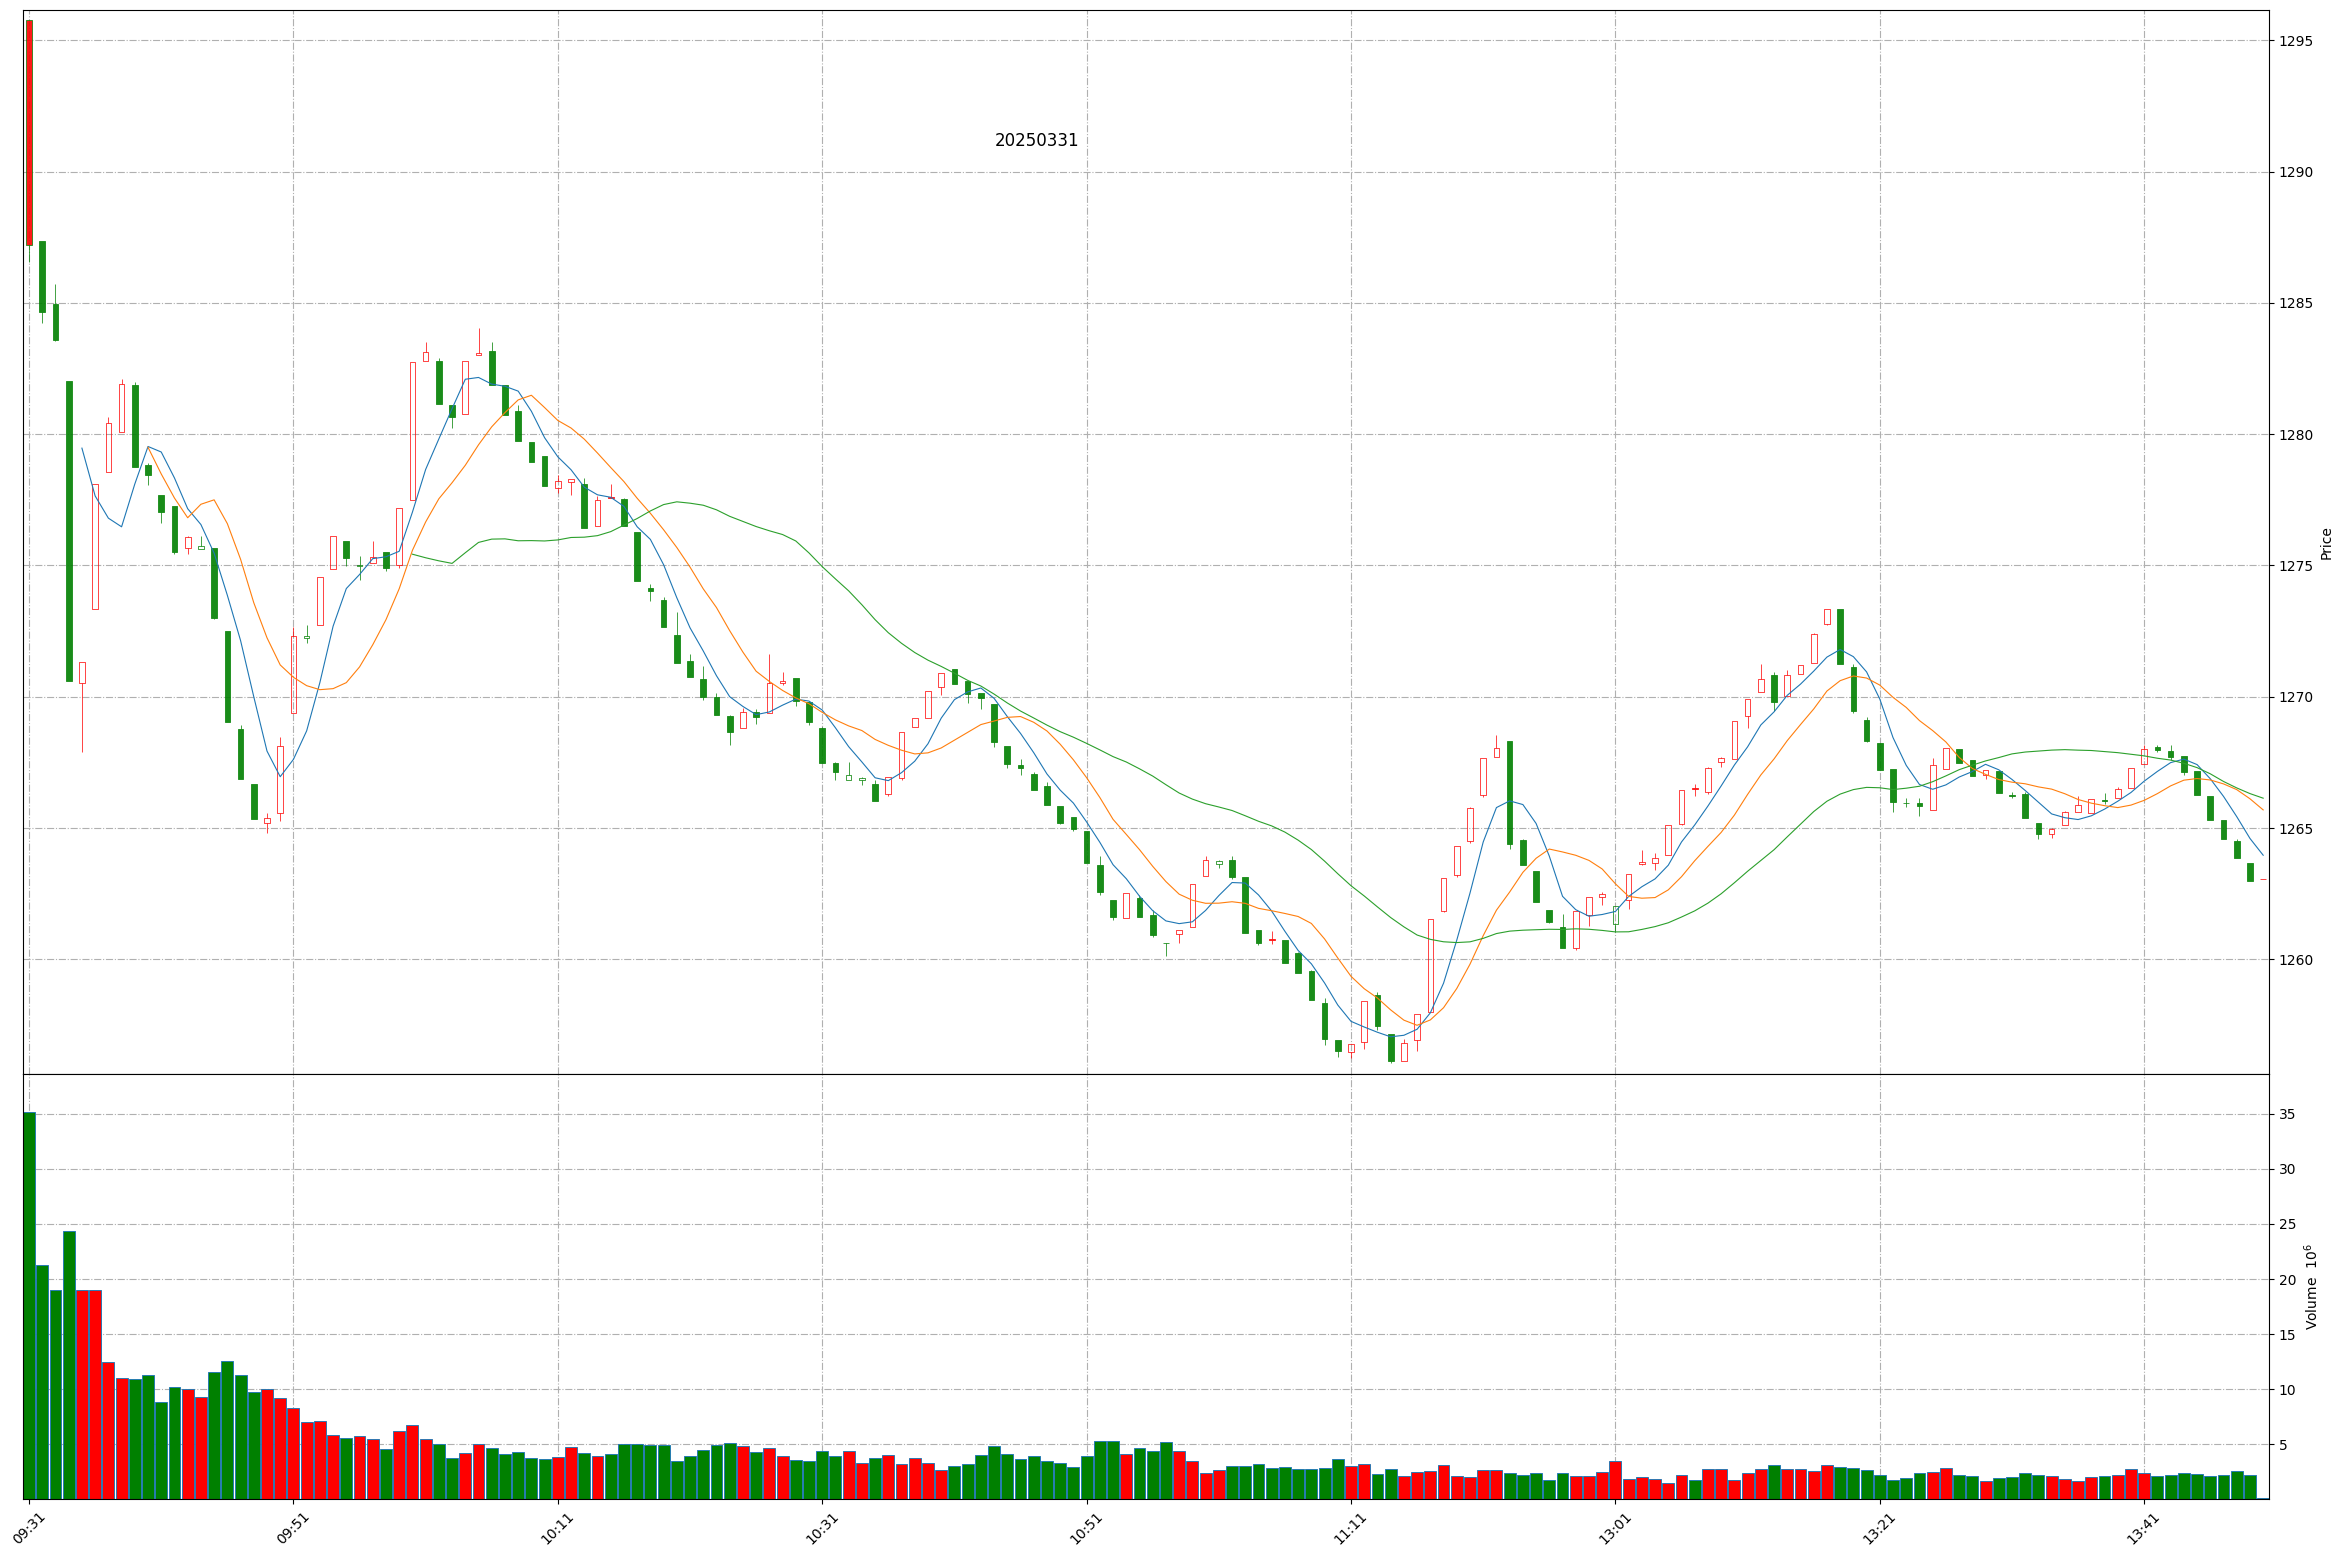
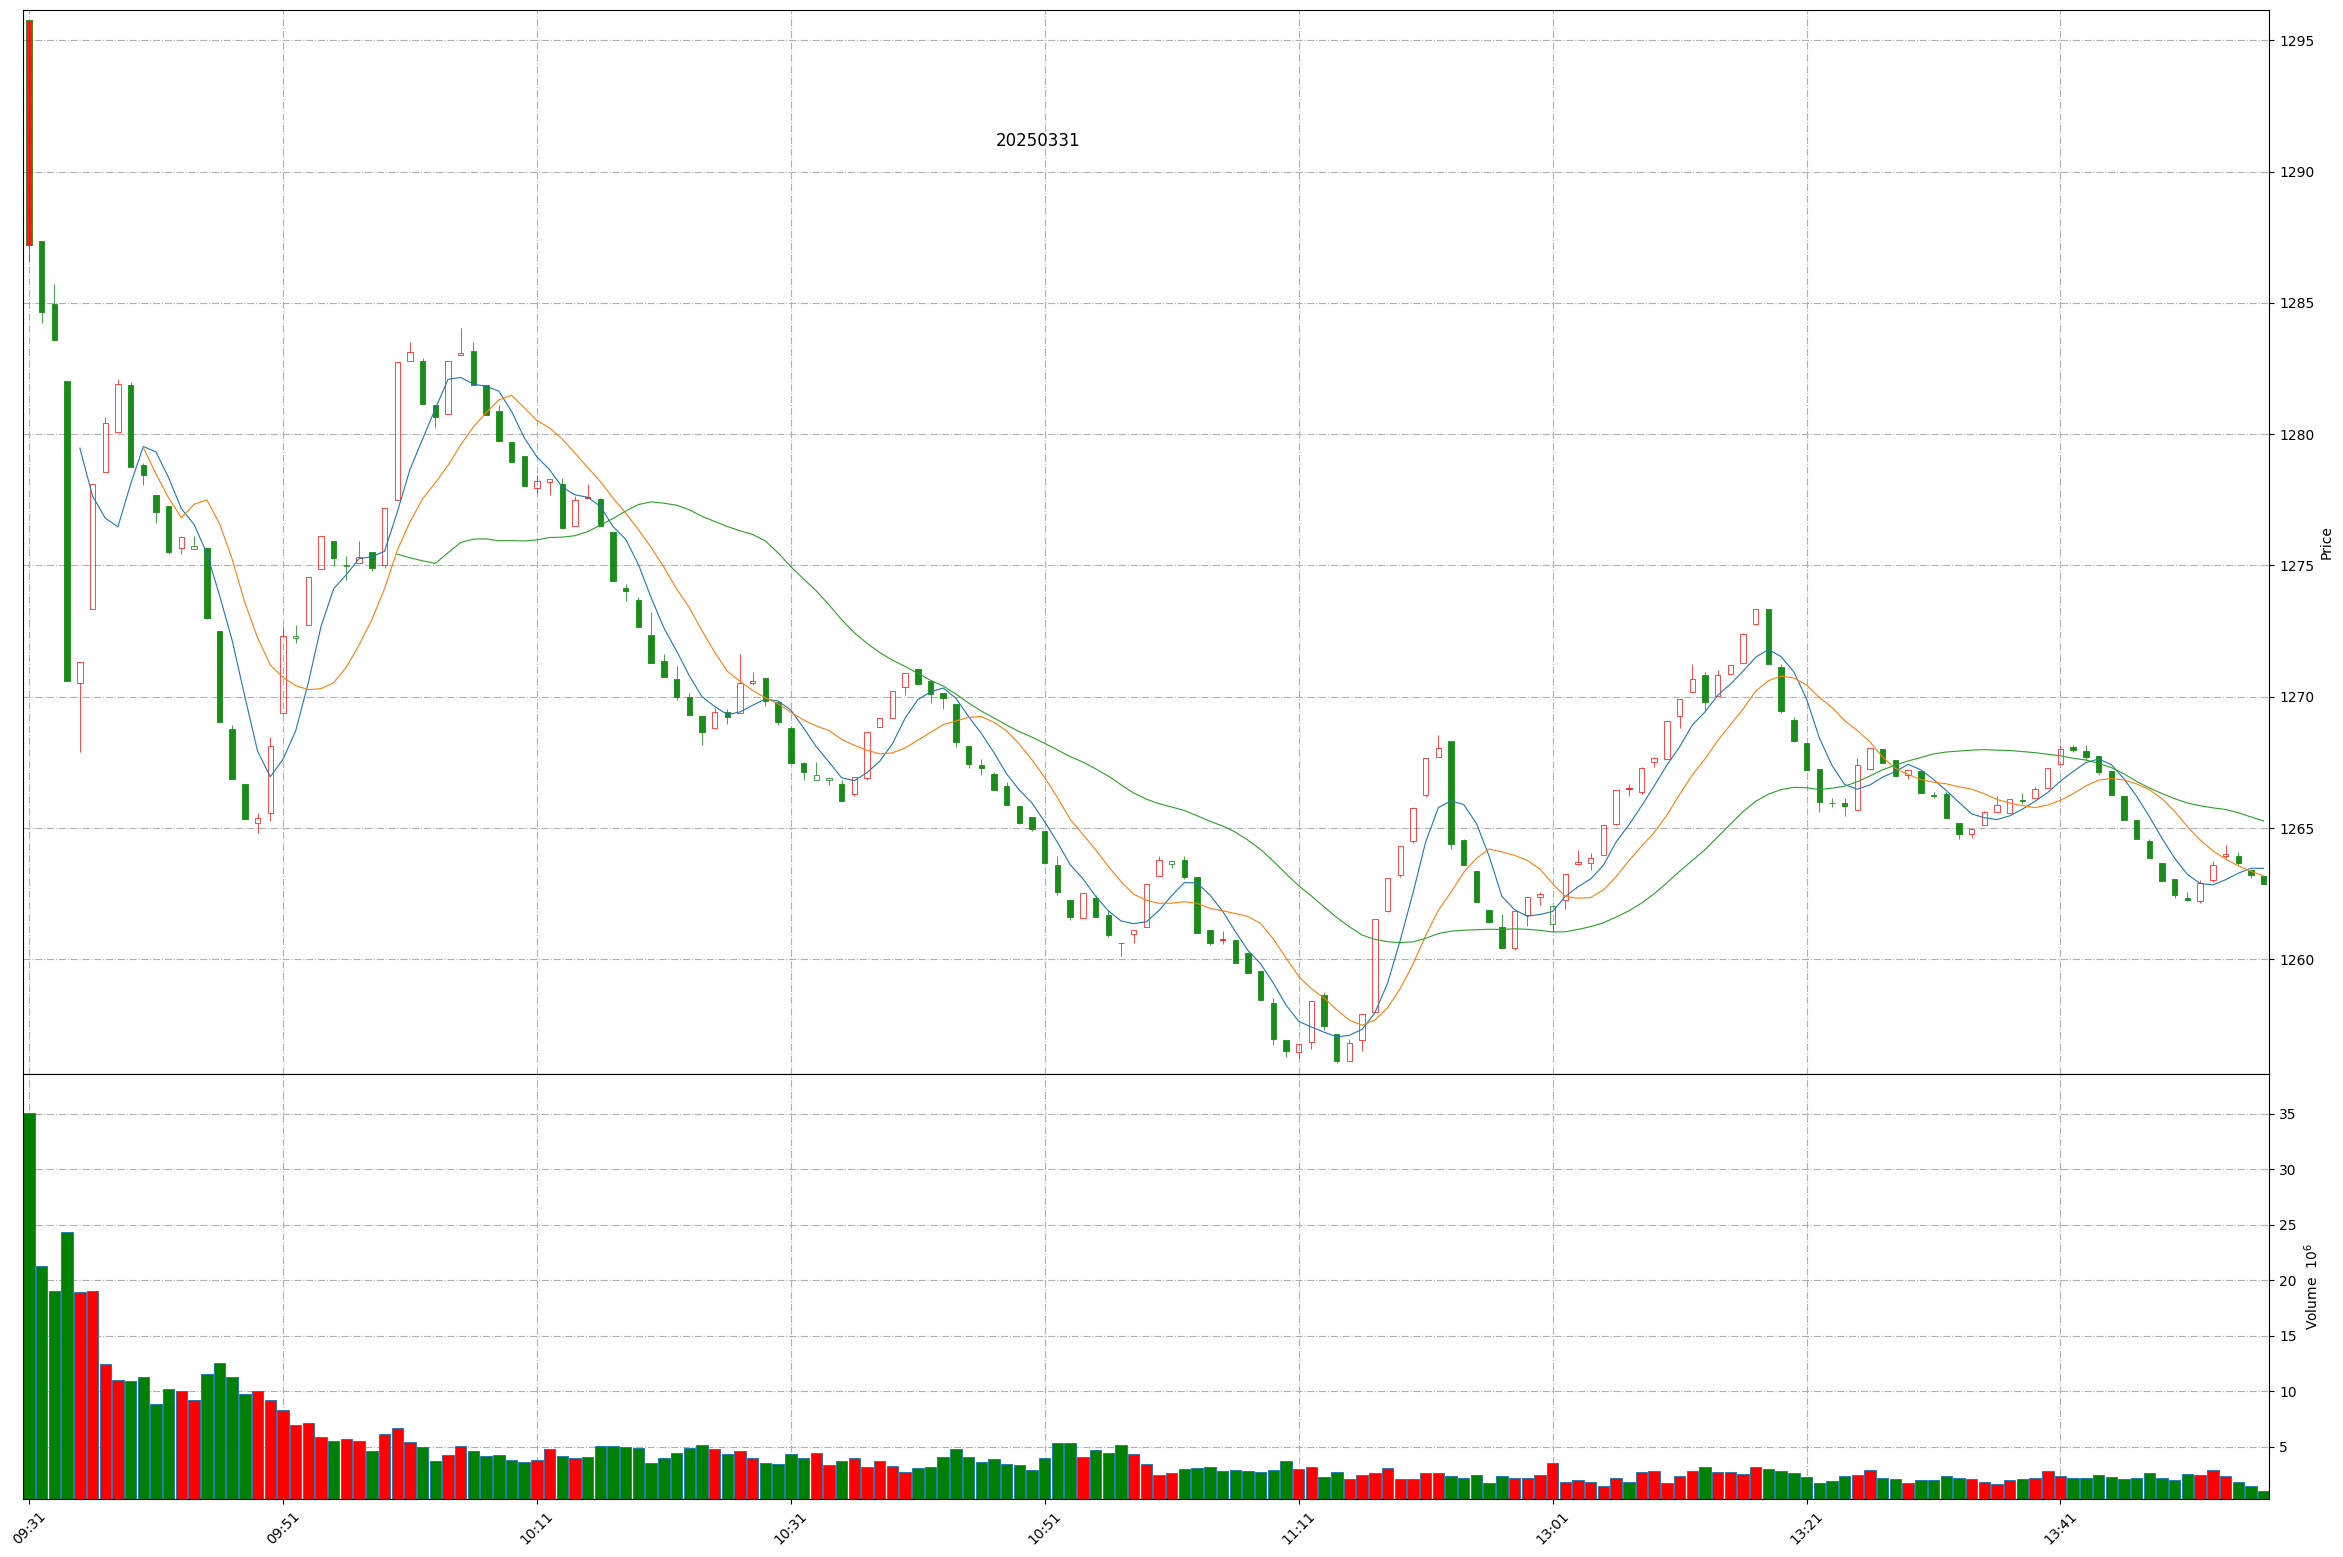
Github action update at 2025-03-31 13:56:51.

Changed region(s): [[0.0312, 0.2158, 0.7166, 0.6782], [0.0312, 0.8324, 0.9659, 0.9865], [0.7166, 0.4008, 0.9659, 0.5857]]

diff --git a/README.md b/README.md
@@ -1,11 +1,11 @@
 
 # Daily-A-share-market-quotes 每日 A 股指数（5min 更新）- 20250331
 
-### 上证指数 20250331 13:49
+### 上证指数 20250331 13:56
 ![](./fig/2025/3/20250331-sh000001.png)
 
-### 深证成指 20250331 13:49
+### 深证成指 20250331 13:56
 ![](./fig/2025/3/20250331-sz399001.png)
 
-### 北证50 20250331 13:49
+### 北证50 20250331 13:56
 ![](./fig/2025/3/20250331-bj899050.png)
